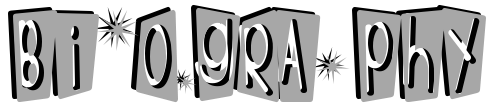
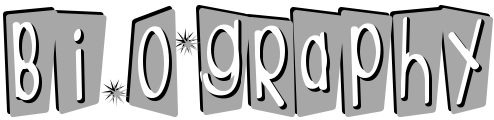
More new mobile-size headers

diff --git a/sound-o-mat/bio.html b/sound-o-mat/bio.html
@@ -64,10 +64,10 @@
     <div class="container align-center">
       <div class="row justify-content-md-center">
         <div class="mbr-white col-md-10">
-          <h1 class="mbr-section-title mbr-bold pb-3 mbr-fonts-style display-1">
+          <h2 class="mbr-section-title mbr-bold pb-3 mbr-fonts-style display-1">
 	    <img class="web" src="assets/images/titles/bi-o-graphy.png" alt="The Sound-O-Mat: Biography" title="The Sound-O-Mat: Biography">
-	    <img class="web" src="assets/images/titles/bi-o-graphy-sm.png" alt="The Sound-O-Mat: Biography" title="The Sound-O-Mat: Biography">
-	  </h1>
+	    <img class="mobile" src="assets/images/titles/bi-o-graphy-sm.png" alt="The Sound-O-Mat: Biography" title="The Sound-O-Mat: Biography">
+	  </h2>
           <p class="mbr-text pb-3 mbr-fonts-style display-7">Coming soon.</p>
 	  <div class="mbr-section-btn">
 	    <a class="btn btn-md btn-info display-4" href="#advice" onClick="showText('hidden-section');">For Aspiring Engineers</a>
@@ -84,7 +84,10 @@
     <div class="container align-center">
       <div class="row justify-content-md-center">
         <div class="mbr-white col-md-10">
-          <h1 class="mbr-section-title mbr-bold pb-3 mbr-fonts-style display-1"><img src="assets/images/titles/advice for eng-o-neers.png" alt="The Sound-O-Mat: Advice" title="The Sound-O-Mat: Advice"></h1>
+          <h2 class="mbr-section-title mbr-bold pb-3 mbr-fonts-style display-1">
+	    <img class="web" src="assets/images/titles/advice for eng-o-neers.png" alt="The Sound-O-Mat: Biography" title="The Sound-O-Mat: Biography">
+	    <img class="mobile" src="assets/images/titles/advice for eng-o-neers-sm.png" alt="The Sound-O-Mat: Biography" title="The Sound-O-Mat: Biography">
+	  </h2>
           <p class="mbr-text pb-3 mbr-fonts-style display-7">Coming soon.</p>
         </div>
       </div>

diff --git a/sound-o-mat/index.html b/sound-o-mat/index.html
@@ -161,7 +161,7 @@
               <h4 class="card-title pb-3 mbr-fonts-style display-7">Friends</h4>
               <p class="mbr-text-center mbr-fonts-style display-4">Craig Vanderbourgh<br>DAC Crowell<br>Mike Gangloff<br>Jack Rose<br>Patrick Best
 		<br>Tom &amp; Christina Carter<br>Wink Junior
-		<br>Mark Somniferum<br>Mat Benzie<br>Bill Horist<br>Ben Hudgins<br>Chris McBeth<br>Greg Headley<br>John Koch-Northrup<br>Mike &amp; Lena Griffin<br><br><br><br><br></p>
+		<br>Mark Somniferum<br>Mat Benzie<br>Bill Horist<br>Ben Hudgins<br>Chris McBeth<br>Greg Headley<br>John Koch-Northrup<br>Mike &amp; Lena Griffin<br>Christopher &amp; Richard Arnold<br><br><br><br></p>
             </div>
           </div>
         </div>

diff --git a/sound-o-mat/assets/mobirise/css/mbr-additional.css b/sound-o-mat/assets/mobirise/css/mbr-additional.css
@@ -1538,7 +1538,7 @@ body {
 .cid-rvjn147C6I {
   background-image: url("../../../assets/images/starburst-1000x1080.jpg");
 }
-.cid-rvjn147C6I h1 {
+.cid-rvjn147C6I h2 {
   color: #000000;
 }
 .cid-rvjn147C6I img {
@@ -1568,7 +1568,7 @@ body {
   background-image: url("../../../assets/images/temporama-800x800.jpg");
   display: none;
 }
-.cid-rvpUU4HwEL h1 {
+.cid-rvpUU4HwEL h2 {
   color: #000000;
 }
 .cid-rvpUU4HwEL img {
